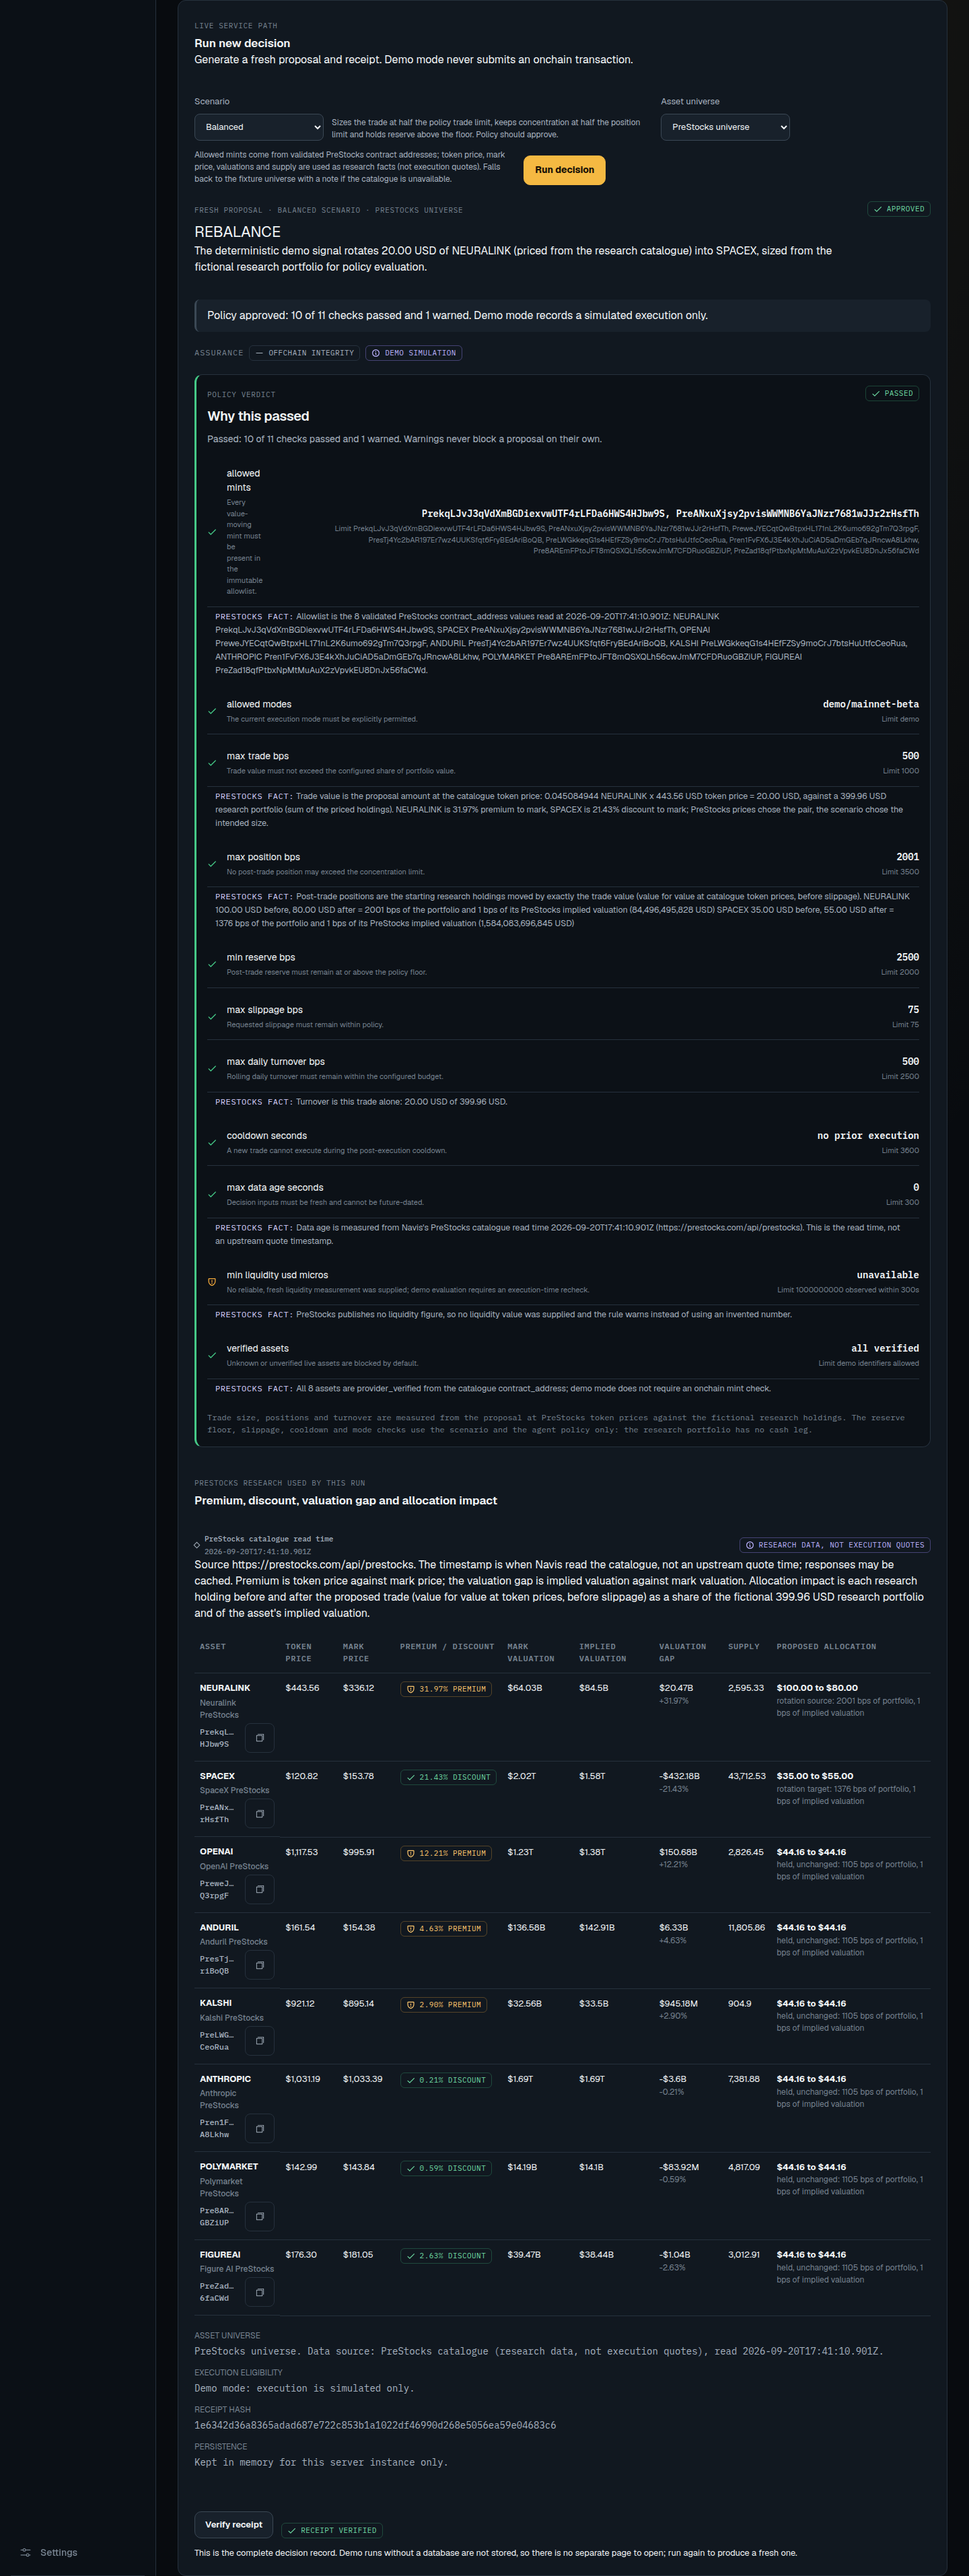
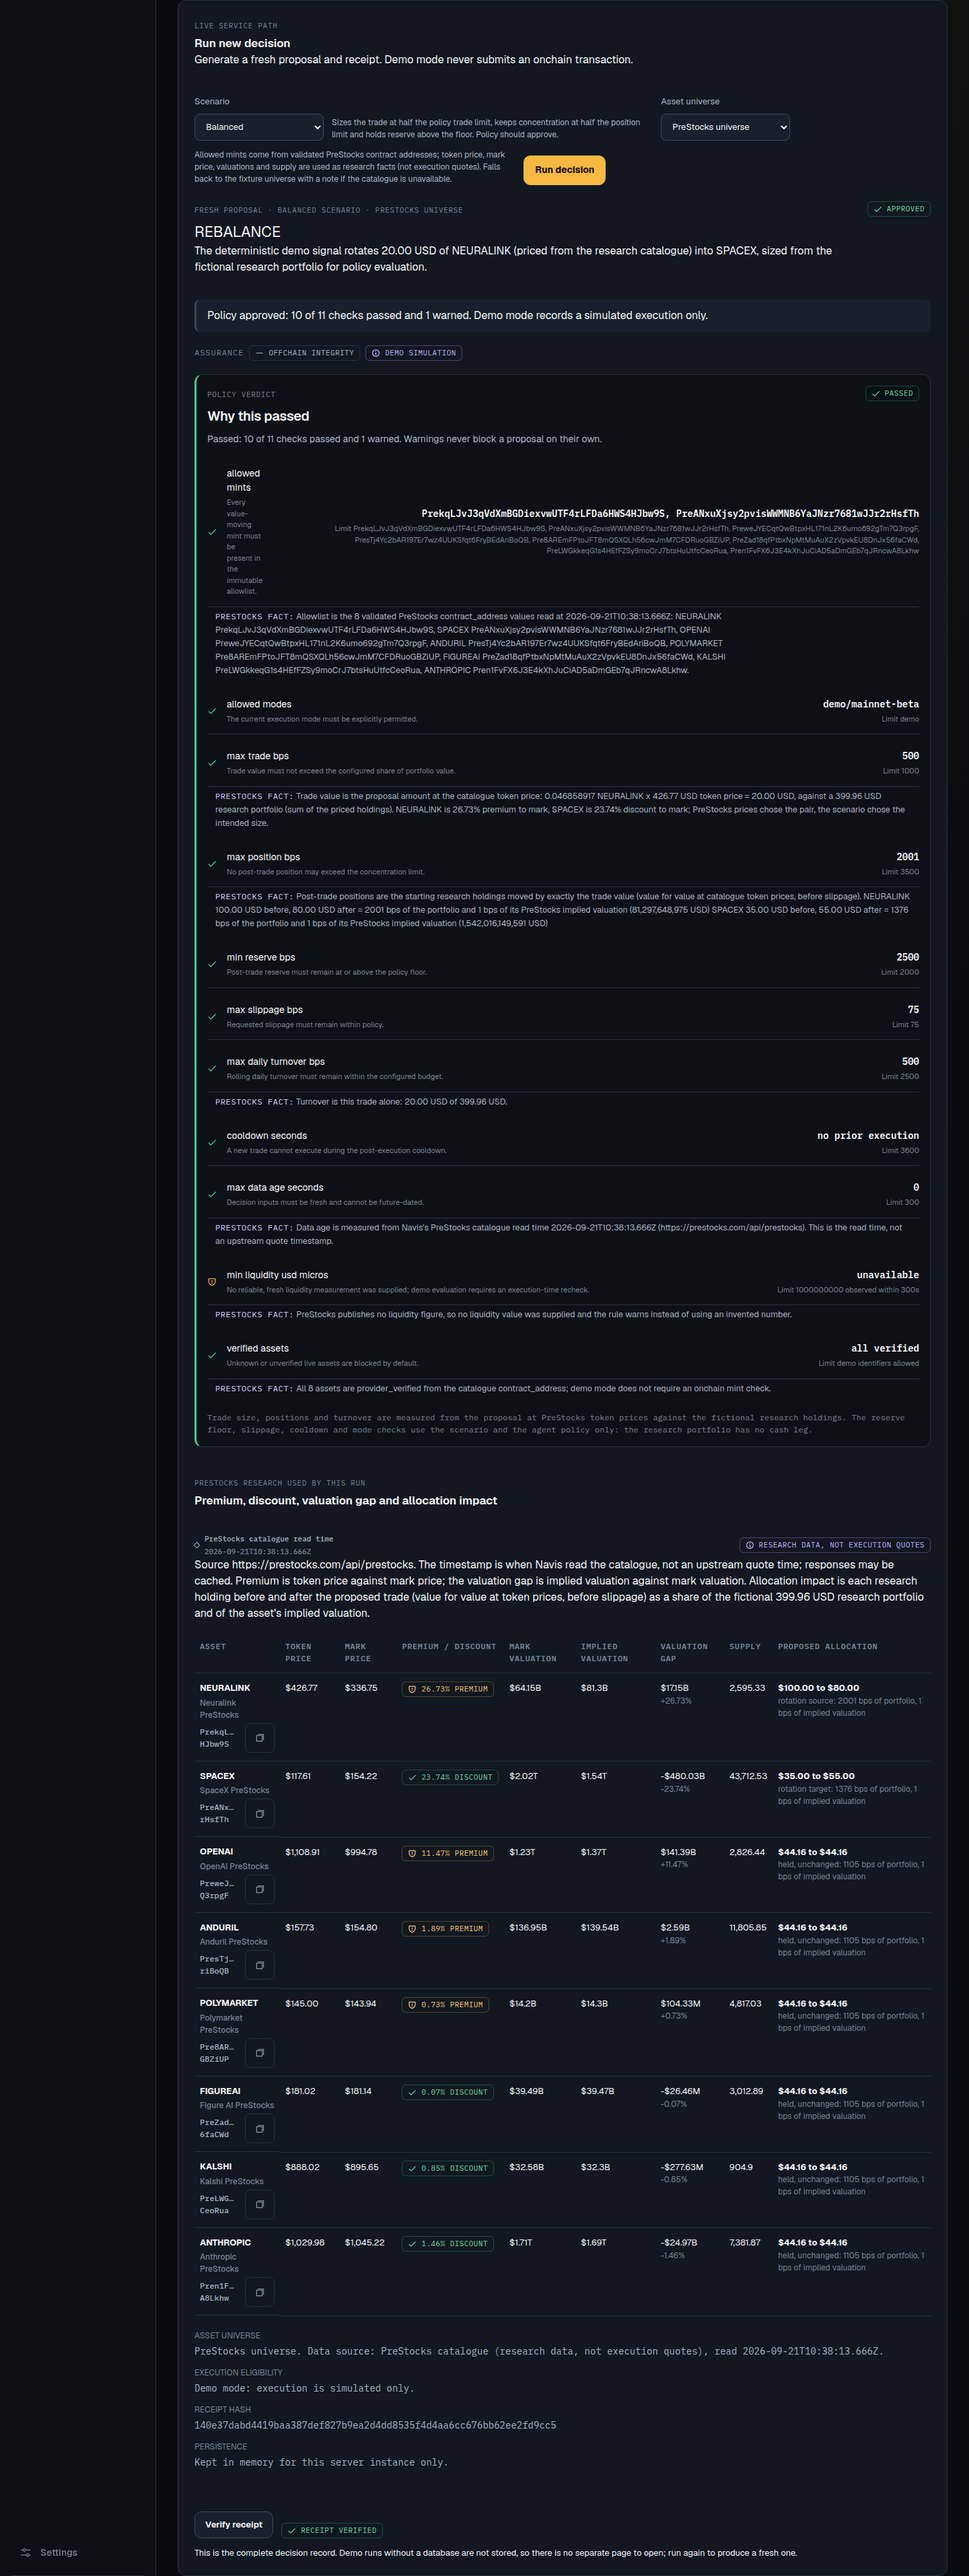
Record the public smoke, health output and screenshots for the deployed commit

diff --git a/docs/EVIDENCE.md b/docs/EVIDENCE.md
@@ -6,17 +6,17 @@ This manifest records what can be proven from the current `main` and the public 
 
 ## Final state
 
-| Item                        | Value                                                                                                                                                                                                                                           |
-| --------------------------- | ----------------------------------------------------------------------------------------------------------------------------------------------------------------------------------------------------------------------------------------------- |
-| Final application commit    | PENDING_CODE_COMMIT (GitHub `main`); the docs-only follow-up that records the public smoke against it is PENDING_DOCS_COMMIT                                                                                                                    |
-| Repository URL              | https://github.com/syther069/Navis                                                                                                                                                                                                              |
-| Deployed URL                | https://navis-gilt.vercel.app (Vercel production, project `navis`, production branch `main`)                                                                                                                                                    |
-| Deployed commit before push | `6aa5f32` (Vercel READY at 16:58 UTC); it failed the current judge smoke only at the new "fresh decision reports an honest asset universe" step because the PreStocks universe work was not deployed yet                                        |
-| Deployed commit after push  | PENDING_DEPLOYED_COMMIT                                                                                                                                                                                                                         |
-| Public judge smoke          | PENDING_PUBLIC_SMOKE                                                                                                                                                                                                                            |
-| Public health output        | See "Public health" below                                                                                                                                                                                                                       |
-| Videos                      | Not recorded (owner action; scenes are listed in `docs/SUBMISSION_DRAFT.md`)                                                                                                                                                                    |
-| Screenshots                 | `docs/evidence/final-agent-run-verdict.png`, `final-agent-run-receipt-hash.png`, `final-agent-run-full.png`, `final-proof-page.png`, `final-markets-launch.png`, `final-landing.png` (captured with `scripts/capture-evidence-screenshots.mjs`) |
+| Item                        | Value                                                                                                                                                                                                                                                                                                    |
+| --------------------------- | -------------------------------------------------------------------------------------------------------------------------------------------------------------------------------------------------------------------------------------------------------------------------------------------------------- |
+| Final application commit    | `a41c10a` (GitHub `main`, pushed 2026-09-21 authored and committed by the owner); the docs-only follow-up that records the public smoke against it is the next commit on `main` (it changes only `docs/EVIDENCE.md`, `docs/SUBMISSION_READINESS.md` and `docs/evidence/*`)                               |
+| Repository URL              | https://github.com/syther069/Navis                                                                                                                                                                                                                                                                       |
+| Deployed URL                | https://navis-gilt.vercel.app (Vercel production, project `navis`, production branch `main`)                                                                                                                                                                                                             |
+| Deployed commit before push | `6aa5f32` (Vercel READY at 16:58 UTC); it failed the current judge smoke only at the new "fresh decision reports an honest asset universe" step because the PreStocks universe work was not deployed yet                                                                                                 |
+| Deployed commit after push  | `a41c10a` (Vercel production deployment READY on 2026-09-21, same commit as GitHub `main`)                                                                                                                                                                                                               |
+| Public judge smoke          | Passed on 2026-09-21 from a clean session against https://navis-gilt.vercel.app: 12 page routes, PreStocks API, real 404 for unknown decision and proof ids, fresh oversized decision on the PreStocks universe. Report: `docs/evidence/final-public-smoke.json`                                         |
+| Public health output        | See "Public health" below                                                                                                                                                                                                                                                                                |
+| Videos                      | Not recorded (owner action; scenes are listed in `docs/SUBMISSION_DRAFT.md`)                                                                                                                                                                                                                             |
+| Screenshots                 | `docs/evidence/final-agent-run-verdict.png`, `final-agent-run-receipt-hash.png`, `final-agent-run-full.png`, `final-proof-page.png`, `final-markets-launch.png`, `final-landing.png` (captured from https://navis-gilt.vercel.app at commit `a41c10a` on 2026-09-21 with `npm run evidence:screenshots`) |
 
 ## Local build evidence
 
@@ -48,7 +48,7 @@ All gates were run on 2026-09-20 at the final application commit.
 
 ## Public health
 
-`GET https://navis-gilt.vercel.app/api/health` on 2026-09-20 returned HTTP 200 with `mode=demo`, `cluster=devnet` and these services: `database` not configured, `authenticationOrigin` not configured, `solanaRpc` configured (public devnet endpoint, read-only slot probe), `walletSessions` not configured, `clawpump` not configured, `meteora` configured (SDK reads only), `prestocks` configured, `ai` configured (deterministic demo provider). No secret values are returned.
+`GET https://navis-gilt.vercel.app/api/health` on 2026-09-21 at commit `a41c10a` (saved as `docs/evidence/final-public-health.json`) returned HTTP 200 with `mode=demo`, `cluster=devnet` and these services: `database` not configured, `authenticationOrigin` not configured, `solanaRpc` configured (public devnet endpoint, read-only slot probe), `walletSessions` not configured, `clawpump` not configured, `meteora` configured (SDK reads only), `prestocks` configured, `ai` configured (deterministic demo provider). No secret values are returned.
 
 The Vercel project has environment variables named `NEXT_PUBLIC_APP_URL`, `DATABASE_URL` and `SESSION_SECRET`, but the health output shows none of them holds a usable value. Consequences on the public site: wallet sign-in is unavailable, created agents and their persisted decision runs cannot be exercised, and fresh Atlas runs are kept in the memory of the serverless instance that produced them. The owner steps to change this are in `docs/DEPLOYMENT_RUNBOOK.md`, section 6a.
 

diff --git a/docs/SUBMISSION_READINESS.md b/docs/SUBMISSION_READINESS.md
@@ -1,6 +1,6 @@
 # Navis submission readiness
 
-Updated: 2026-09-20 (late evening IST), current `main`. Public site: https://navis-gilt.vercel.app. The deployed commit and the public smoke result are recorded in `docs/EVIDENCE.md` under "Final state".
+Updated: 2026-09-21 (IST), GitHub `main` at `a41c10a`. Public site: https://navis-gilt.vercel.app. The deployed commit and the public smoke result are recorded in `docs/EVIDENCE.md` under "Final state".
 
 ## Official rules verified
 
@@ -75,4 +75,4 @@ Ready to submit as an honest demo once the owner completes the form items (regis
 - Hardening, fresh decision flow, intent binding and origin fix pushed and deployed at `a335681`.
 - First-screen intro plus read-only devnet slot probe live at `085e779`; production `SOLANA_RPC_URL` points at the public devnet endpoint.
 - CI pipeline, agent list, persisted runs, landing screen, assurance badges, MIT licence and real 404s deployed at `6aa5f32` (44 files / 318 tests at that point).
-- Final: PreStocks verified asset universe, 46 files / 340 tests, evidence sync.
+- Final (2026-09-21): PreStocks verified asset universe, evidence sync, 46 files / 340 tests; deployed at `a41c10a`, public smoke passed.
